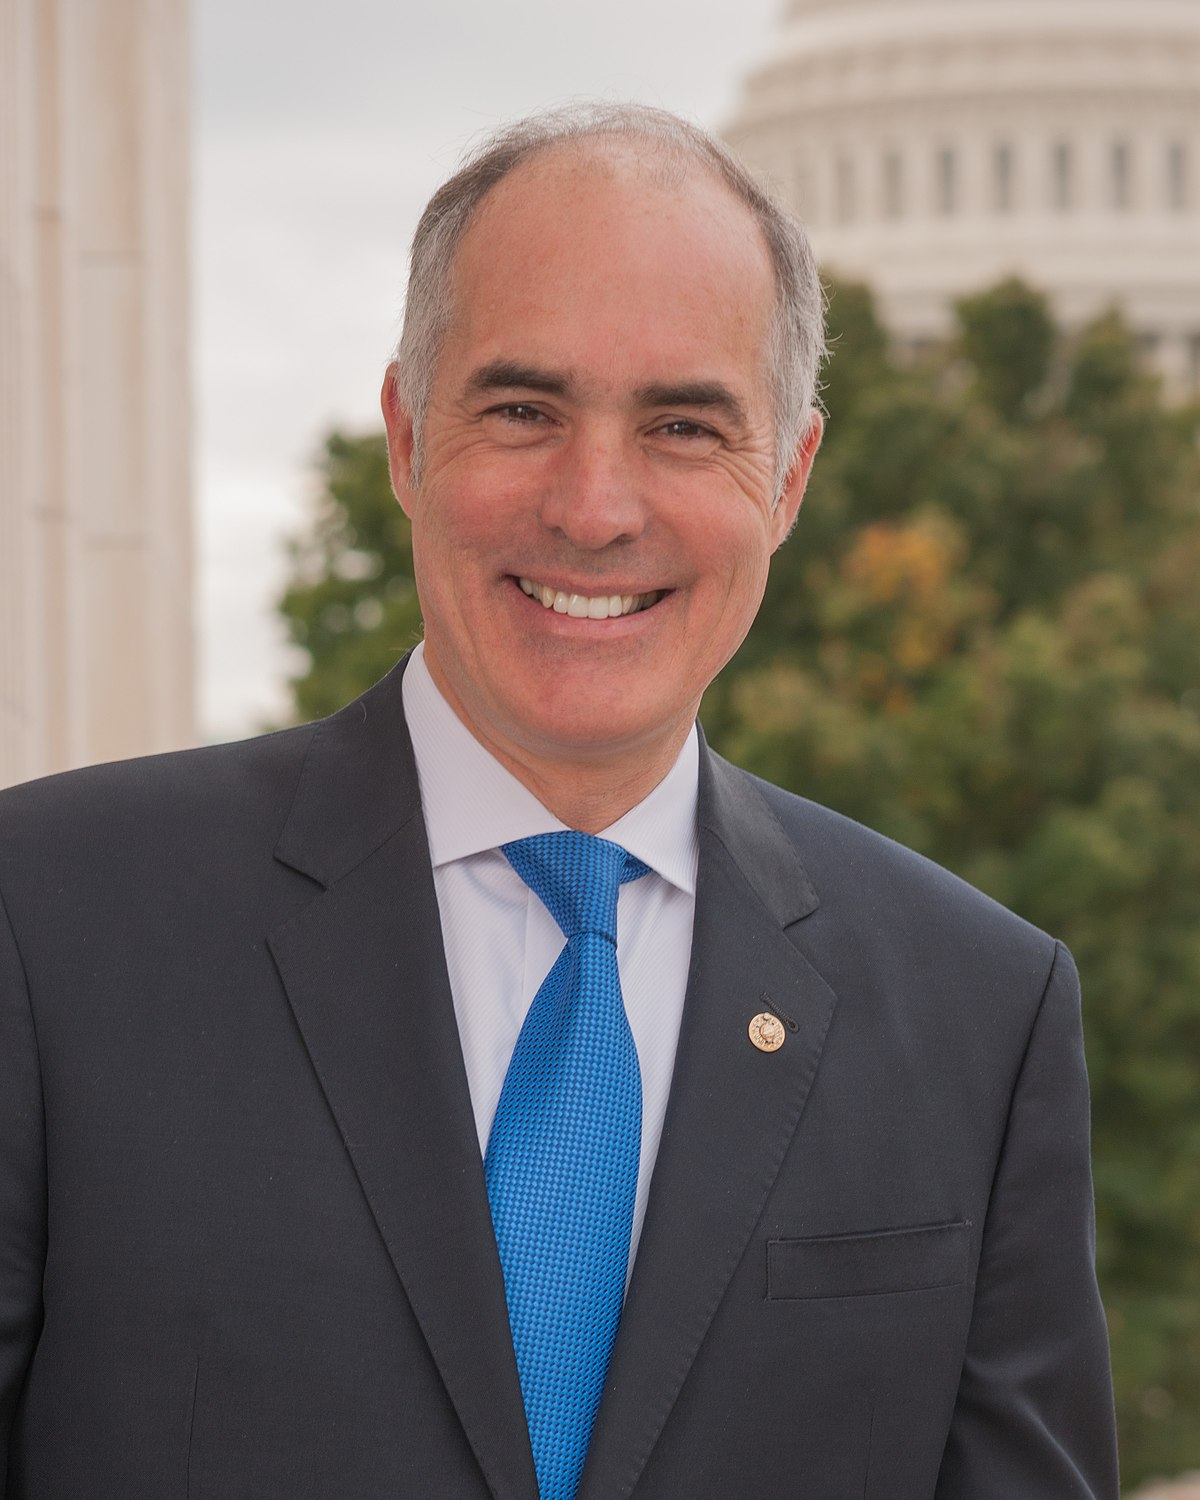
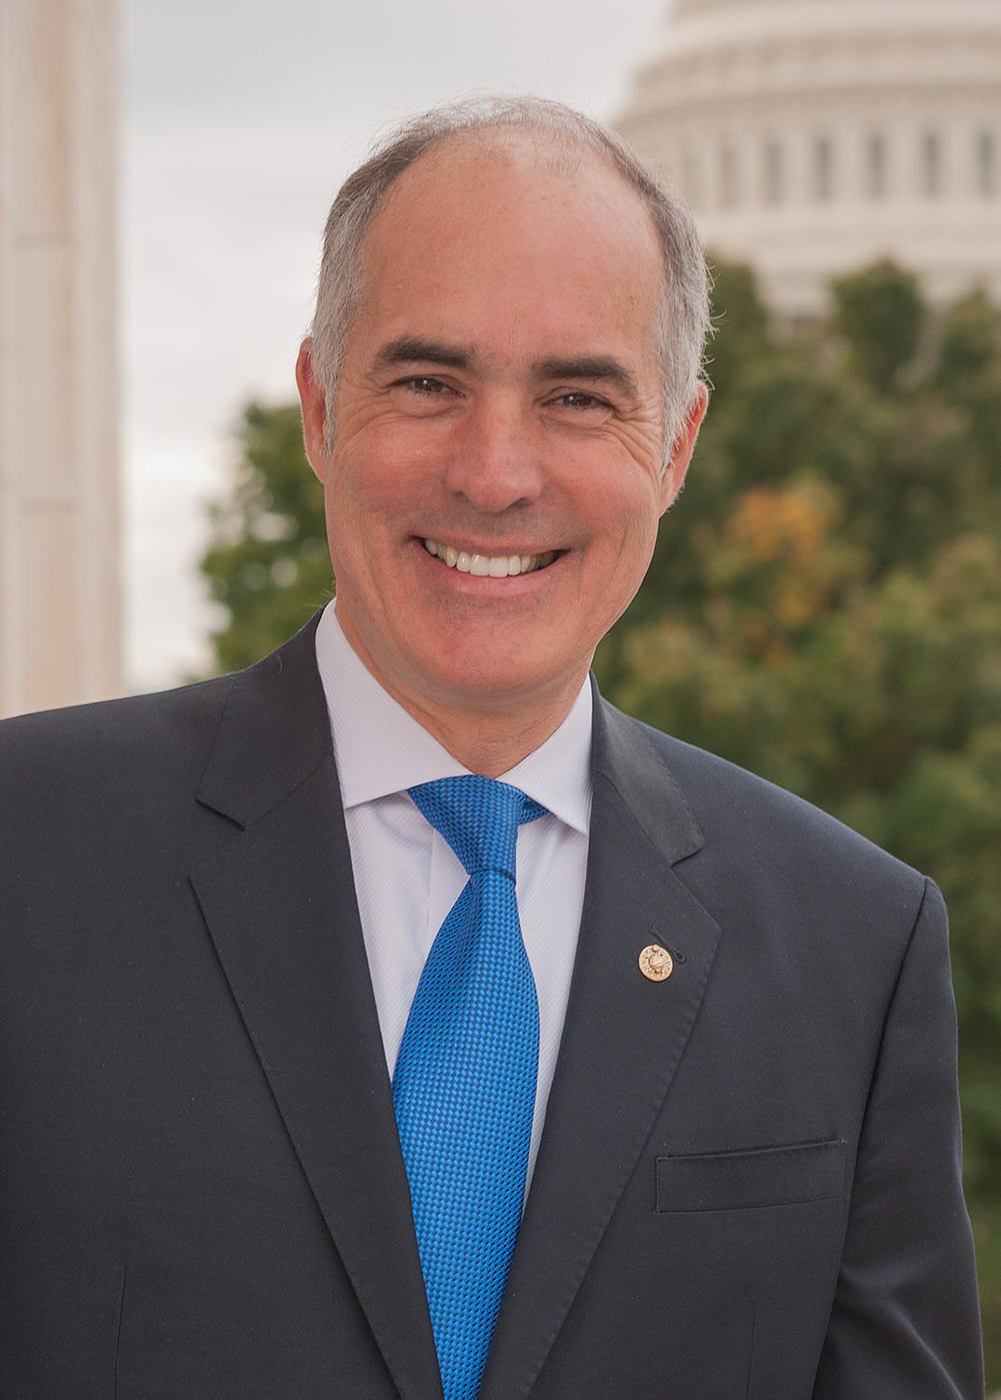
Main Page Updates
Changed resolution for front page pictures and made front page images responsive

diff --git a/index.html b/index.html
@@ -1,46 +1,43 @@
 <!DOCTYPE HTML>
 <html>
-	<head>
-		<title>Pennsylvania Young Democrats</title>
-		<meta charset="utf-8" />
-		<meta name="viewport" content="width=device-width, initial-scale=1" />
-		<link rel="stylesheet" href="assets/css/main.css" />
-	</head>
-	<body>
+<head>
+<title>Pennsylvania Young Democrats</title>
+<meta charset="utf-8" />
+<meta name="viewport" content="width=device-width, initial-scale=1" />
+<link rel="stylesheet" href="assets/css/main.css" />
+</head>
+<body>
 
 <!-- Header -->
-			<header id="header" class="alt">
-				<div class="logo"><a href="">Young Dems <span>of PENNSYLVANIA</span></a></div>
-				<a href="#menu">Menu</a>
-			</header>
+<header id="header" class="alt">
+  <div class="logo"><a href="">Young Dems <span>of PENNSYLVANIA</span></a></div>
+  <a href="#menu">Menu</a> </header>
 
 <!-- Nav -->
-			<nav id="menu">
-				<ul class="links">
-					<li><a href="/">Home</a></li>
-					<li><a href="people/">Our Leaders</a></li>
-					<li><a href="issues/">What We Believe</a></li>
-					<li><a href="candidates/">Candidates</a></li>
-					<li><a href="counties/">County Chapters</a></li>
-					<li><a href="events.html">Get Involved</a></li>
-					<li><a href="news.html">Latest News</a></li>
-					<li><a href="media.html">Media Center</a></li>
-				</ul>
-			</nav>
+<nav id="menu">
+  <ul class="links">
+    <li><a href="/">Home</a></li>
+    <li><a href="people/">Our Leaders</a></li>
+    <li><a href="issues/">What We Believe</a></li>
+    <li><a href="candidates/">Candidates</a></li>
+    <li><a href="counties/">County Chapters</a></li>
+    <li><a href="events.html">Get Involved</a></li>
+    <li><a href="news.html">Latest News</a></li>
+    <li><a href="media.html">Media Center</a></li>
+  </ul>
+</nav>
 
 <!-- Banner -->
-			<section class="banner full">
-				<article>
-					<img src="images/parallax/payd.png" alt="" />
-					<div class="inner">
-						<header>
-							<p>Youth Wing of</p>
-							<h2><a href="http://www.padems.com">PA DEMS</a></h2>
-						</header>
-					</div>
-				</article>
-
-				<!--<article>
+<section class="banner full">
+  <article> <img src="images/parallax/payd.png" alt="" />
+    <div class="inner">
+      <header>
+        <p>Youth Wing of</p>
+        <h2><a href="http://www.padems.com">PA DEMS</a></h2>
+      </header>
+    </div>
+  </article>
+  <!--<article>
 					<img src="images/wrappers/slide04.jpg" alt="" />
 					<div class="inner">
 						<header>
@@ -49,25 +46,23 @@
 						</header>
 					</div>
 				</article> -->
-				<article>
-					<img src="images/parallax/conor lamb.jpg"  alt="" />
-					<div class="inner">
-						<header>
-							<p>U.S. House Special Election PA-18 &nbsp;</p>
-							<h2><a href="https://conorlamb.com">Conor Lamb</a></h2>
-						</header>
-					</div>
-				</article>
-				<article>
-					<img src="images/wrappers/new congressional map.jpg"  alt="" />
-					<div class="inner">
-						<header>
-							<p>Pennsylvania Supreme Court Issues New Congressional Maps</p>
-							<h2><a href="news.html">New Maps</a></h2>
-						</header>
-					</div>
-				</article>
-				<!--
+  <article> <img src="images/parallax/conor lamb.jpg"  alt="" />
+    <div class="inner">
+      <header>
+        <p>U.S. House Special Election PA-18 &nbsp;</p>
+        <h2><a href="https://conorlamb.com">Conor Lamb</a></h2>
+      </header>
+    </div>
+  </article>
+  <article> <img src="images/wrappers/new congressional map.jpg"  alt="" />
+    <div class="inner">
+      <header>
+        <p>Pennsylvania Supreme Court Issues New Congressional Maps</p>
+        <h2><a href="news.html">New Maps</a></h2>
+      </header>
+    </div>
+  </article>
+  <!--
 				<article>
 					<img src="images/slide05.jpg"  alt="" />
 					<div class="inner">
@@ -77,73 +72,84 @@
 						</header>
 					</div>
 				</article>
-				-->
-			</section>
+				--> 
+</section>
+	
 <!-- Mission -->
-			<section id="Mission" class="wrapper style4">
-				<div class="inner">
-					<header class="align-center">
-						  <h2><strong>Mission statement</strong></h2>
-					</header>
-					<center>
-					  <p>The Pennsylvania Young Democrats are the official youth wing of the Pennsylvania Democratic Party. It is our mission to encourage civic engagement in the party and empower young people across our commonwealth to elect Democrats up and down the ballot while organizing and advocating for progressive values. We are the future of the Pennsylvania Democratic Party, and the future is now.</p>
-					</center>
-				</div>
-			</section>
+<section id="Mission" class="wrapper style4">
+  <div class="inner">
+    <header class="align-center">
+      <h2><strong>Mission statement</strong></h2>
+    </header>
+    <center>
+      <p>The Pennsylvania Young Democrats are the official youth wing of the Pennsylvania Democratic Party. It is our mission to encourage civic engagement in the party and empower young people across our commonwealth to elect Democrats up and down the ballot while organizing and advocating for progressive values. We are the future of the Pennsylvania Democratic Party, and the future is now.</p>
+    </center>
+  </div>
+</section>
 
 <!-- Leaders -->
-			<section id="Leaders" class="wrapper style2">
-				<div class="inner">
-					<header class="align-center">
-						<p class="special">Statewide Officials</p>
-							<h2><b>Our Leaders</b></h2>
-						<br>
-						<br>
-					</header>
-					<header class="align-center">
-						<div class="row 200%">
-							<div class="6u 12u$(medium)">
-								<img src="images/tom wolf.jpg" width="600" height="725" alt=""/>
-								<ul class="actions">
-									<br>
-									<li><a href="people/#gov" class="button alt"><h2>Governor Tom Wolf</h2></a></li>
-								</ul>
-							</div>
-							<div class="6u$ 12u$(medium)">
-								<img src="images/bob casey.jpg" width="600" height="725" alt=""/>
-								<ul class="actions">
-									<br>
-									<li><a href="people/#sen1" class="button alt"><h2>Senator Bob Casey</h2></a></li>
-								</ul>
-							</div>
-						</div>
-					</header>
-				</div>
-			</section>
+<section id="Leaders" class="wrapper style2">
+  <div class="inner">
+    <header class="align-center">
+      <p class="special">Statewide Officials</p>
+      <h2><b>Our Leaders</b></h2>
+      <br>
+      <br>
+    </header>
+    <div id="leaders" class="box alt">
+      <div class="row 50% uniform">
+        <div class="6u"><span class="image fit"><img src="images/tom wolf.jpg" alt="" max-height="100%" width="auto"/></span>
+          <ul class="actions fit">
+            <br>
+            <center>
+              <li><a href="people/" class="button fit alt">
+                <h4>Tom Wolf</h4>
+                </a>
+                <p><strong>Governor</strong></p>
+              </li>
+            </center>
+          </ul>
+        </div>
+        <div class="6u"><span class="image fit"><img src="images/bob casey.jpg" alt="" max-height="100%" width="auto"/></span>
+          <ul class="actions fit">
+            <br>
+            <center>
+              <li><a href="people/" class="button fit alt">
+                <h4>Bob Casey</h4>
+                </a>
+                <p><strong>Senator</strong></p>
+              </li>
+            </center>
+          </ul>
+        </div>
+      </div>
+    </div>
+  </div>
+</section>
 
 <!-- Quote -->
-			<section id="quote" class="wrapper style3">
-				<div class="inner">
-					<header class="align-center">
-						<p>Change will not come if we wait for some other person or some other time.
-						<br>We are the ones we've been waiting for.
-					  	<br>We are the change that we seek.</p>
-					</header>
-				</div>
-			</section>
+<section id="quote" class="wrapper style3">
+  <div class="inner">
+    <header class="align-center">
+      <p>Change will not come if we wait for some other person or some other time. <br>
+        We are the ones we've been waiting for. <br>
+        We are the change that we seek.</p>
+    </header>
+  </div>
+</section>
 
 <!-- Issues -->
-			<section id="Issues" class="wrapper style2">
-				<div class="inner">
-					<header class="align-center">
-						<p class="special">What We Believe</p>
-						<h2><b>Our Issues</b></h2>
-					</header>
-					<center>
-					  <p>General Issues Statements</p>
-					</center>
-				</div>
-			</section>
+<section id="Issues" class="wrapper style2">
+  <div class="inner">
+    <header class="align-center">
+      <p class="special">What We Believe</p>
+      <h2><b>Our Issues</b></h2>
+    </header>
+    <center>
+      <p>General Issues Statements</p>
+    </center>
+  </div>
+</section>
 
 <!--Next Update
 					<div class="grid-style">
@@ -258,30 +264,26 @@
 					</div>
 				</div>
 			</section>
--->
-
+--> 
 
 <!-- Footer -->
-			<footer id="footer">
-				<div class="container">
-					<ul class="icons">
-						<li><a href="http://www.twitter.com/payoungdems" class="icon fa-twitter-square"><span class="label">Twitter</span></a></li>
-						<li><a href="http://www.facebook.com/payoungdems" class="icon fa-facebook-square"><span class="label">Facebook</span></a></li>
-						<li><a href="http://www.instagram.com/payoungdems" class="icon fa-instagram"><span class="label">Instagram</span></a></li>
-						<!-- <li><a href="#" class="icon fa-envelope-o"><span class="label">Email</span></a></li> -->
-					</ul>
-				</div>
-				<div class="copyright">
-					&copy; Gianni Hill. All rights reserved.
-				</div>
-			</footer>
+<footer id="footer">
+  <div class="container">
+    <ul class="icons">
+      <li><a href="http://www.twitter.com/payoungdems" class="icon fa-twitter-square"><span class="label">Twitter</span></a></li>
+      <li><a href="http://www.facebook.com/payoungdems" class="icon fa-facebook-square"><span class="label">Facebook</span></a></li>
+      <li><a href="http://www.instagram.com/payoungdems" class="icon fa-instagram"><span class="label">Instagram</span></a></li>
+      <!-- <li><a href="#" class="icon fa-envelope-o"><span class="label">Email</span></a></li> -->
+    </ul>
+  </div>
+  <div class="copyright"> &copy; Gianni Hill. All rights reserved. </div>
+</footer>
 
-<!-- Scripts -->
-			<script src="assets/js/jquery.min.js"></script>
-			<script src="assets/js/jquery.scrollex.min.js"></script>
-			<script src="assets/js/skel.min.js"></script>
-			<script src="assets/js/util.js"></script>
-			<script src="assets/js/main.js"></script>
-
-	</body>
+<!-- Scripts --> 
+<script src="assets/js/jquery.min.js"></script> 
+<script src="assets/js/jquery.scrollex.min.js"></script> 
+<script src="assets/js/skel.min.js"></script> 
+<script src="assets/js/util.js"></script> 
+<script src="assets/js/main.js"></script>
+</body>
 </html>
